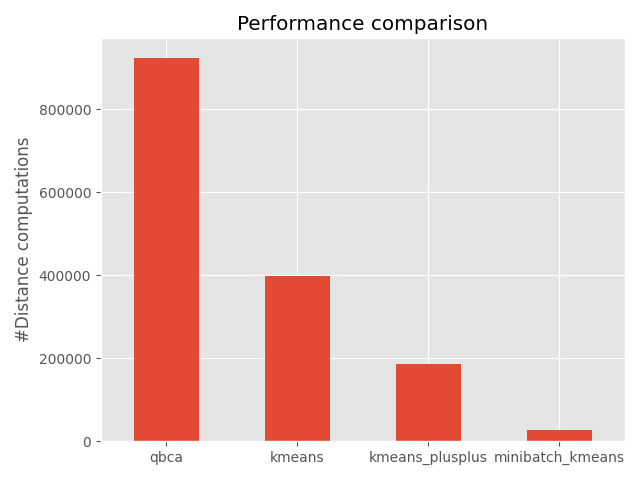
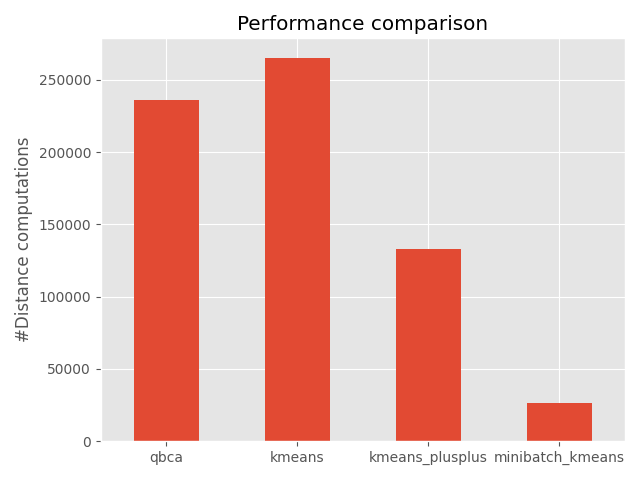
Add gaussian filter

diff --git a/source/test_utils.py b/source/test_utils.py
@@ -48,22 +48,20 @@ def create_gaussian_25():
 def load_image(filename, height=150):
     data_dir = "data"
     image = cv2.imread(os.path.join(data_dir, filename + ".jpg"))
-    image = cv2.cvtColor(image, cv2.COLOR_BGR2RGB)
+    image = cv2.cvtColor(image, cv2.COLOR_BGR2Lab)
     if height:
         y, x, z = image.shape
         ratio = height / float(y)
         dim = (int(x * ratio), height)
         image = cv2.resize(image, dim, interpolation=cv2.INTER_CUBIC)
+    image = cv2.GaussianBlur(image, (5,5), 0.5)
     pixel_values = image.reshape((-1, 3))
-    # y, x, z = image.shape
-    # x_idx, y_idx = np.unravel_index(np.arange(x * y), image.shape[:2])
-    # im2d = image.reshape(x * y, z)
-    # im2d = np.hstack((im2d, x_idx.reshape(-1, 1), y_idx.reshape(-1, 1)))
     return np.float32(pixel_values), image
 
 
 def initialize_algorithms(k, threshold, max_iter):
     qbca = QBCA(n_clusters=k, threshold=threshold, max_iter=max_iter)
+    # Set n_init to 1 to run only once the algorithms
     kmeans = KMeans(
         n_clusters=k,
         init="random",

diff --git a/results/butterfly_internal_metrics.tex b/results/butterfly_internal_metrics.tex
@@ -4,10 +4,10 @@
 \toprule
  & Calinski-Harabasz Index & Dunn Index \\
 \midrule
-qbca & \textbf{39559.2183} & \textbf{0.0046} \\
-kmeans & 39228.1012 & \textbf{0.0046} \\
-kmeans_plusplus & 37165.7072 & 0.0043 \\
-minibatch_kmeans & 38209.9279 & 0.0044 \\
+qbca & \textbf{36104.6279} & 0.0076 \\
+kmeans & 31762.4189 & 0.0084 \\
+kmeans_plusplus & 35895.2570 & 0.0075 \\
+minibatch_kmeans & 29566.8107 & \textbf{0.0089} \\
 \bottomrule
 \end{tabular}
 \end{table}

diff --git a/results/butterfly_performance.tex b/results/butterfly_performance.tex
@@ -4,10 +4,10 @@
 \toprule
  & Training time & #Distance computations \\
 \midrule
-qbca & 4.7505 & 924816.0000 \\
-kmeans & \textbf{0.0099} & 398250.0000 \\
-kmeans_plusplus & 0.0125 & 185850.0000 \\
-minibatch_kmeans & 0.0317 & \textbf{26550.0000} \\
+qbca & 1.7983 & 236143.0000 \\
+kmeans & \textbf{0.0083} & 265500.0000 \\
+kmeans_plusplus & 0.0116 & 132750.0000 \\
+minibatch_kmeans & 0.0310 & \textbf{26550.0000} \\
 \bottomrule
 \end{tabular}
 \end{table}

diff --git a/results/gaussian_25_performance.tex b/results/gaussian_25_performance.tex
@@ -4,10 +4,10 @@
 \toprule
  & Training time & #Distance computations \\
 \midrule
-qbca & 0.2834 & \textbf{32130.0000} \\
-kmeans & \textbf{0.0030} & 850000.0000 \\
-kmeans_plusplus & 0.0099 & 500000.0000 \\
-minibatch_kmeans & 0.0441 & 775000.0000 \\
+qbca & 0.2866 & \textbf{32130.0000} \\
+kmeans & \textbf{0.0030} & 875000.0000 \\
+kmeans_plusplus & 0.0098 & 500000.0000 \\
+minibatch_kmeans & 0.0445 & 775000.0000 \\
 \bottomrule
 \end{tabular}
 \end{table}

diff --git a/results/gaussian_5_performance.tex b/results/gaussian_5_performance.tex
@@ -4,10 +4,10 @@
 \toprule
  & Training time & #Distance computations \\
 \midrule
-qbca & 0.2186 & \textbf{8060.0000} \\
-kmeans & 0.0073 & 125000.0000 \\
-kmeans_plusplus & \textbf{0.0038} & 100000.0000 \\
-minibatch_kmeans & 0.0345 & 145000.0000 \\
+qbca & 0.2162 & \textbf{8060.0000} \\
+kmeans & 0.0074 & 145000.0000 \\
+kmeans_plusplus & \textbf{0.0039} & 100000.0000 \\
+minibatch_kmeans & 0.0392 & 165000.0000 \\
 \bottomrule
 \end{tabular}
 \end{table}

diff --git a/results/wine_performance.tex b/results/wine_performance.tex
@@ -4,10 +4,10 @@
 \toprule
  & Training time & #Distance computations \\
 \midrule
-qbca & 19.4229 & 4928.0000 \\
-kmeans & \textbf{0.0018} & \textbf{4058.4000} \\
-kmeans_plusplus & 0.0021 & \textbf{4058.4000} \\
-minibatch_kmeans & 0.0222 & 9451.8000 \\
+qbca & 19.4729 & 4928.0000 \\
+kmeans & \textbf{0.0019} & 4966.2000 \\
+kmeans_plusplus & 0.0020 & \textbf{2776.8000} \\
+minibatch_kmeans & 0.0264 & 11320.8000 \\
 \bottomrule
 \end{tabular}
 \end{table}

diff --git a/results/iris_performance.tex b/results/iris_performance.tex
@@ -4,10 +4,10 @@
 \toprule
  & Training time & #Distance computations \\
 \midrule
-qbca & 0.0788 & 5213.0000 \\
-kmeans & \textbf{0.0020} & 3420.0000 \\
-kmeans_plusplus & 0.0021 & \textbf{3240.0000} \\
-minibatch_kmeans & 0.0290 & 9675.0000 \\
+qbca & 0.0790 & 5213.0000 \\
+kmeans & \textbf{0.0018} & 3015.0000 \\
+kmeans_plusplus & 0.0020 & \textbf{2790.0000} \\
+minibatch_kmeans & 0.0274 & 9720.0000 \\
 \bottomrule
 \end{tabular}
 \end{table}

diff --git a/results/gaussian_25_internal_metrics.tex b/results/gaussian_25_internal_metrics.tex
@@ -5,9 +5,9 @@
  & Calinski-Harabasz Index & Dunn Index \\
 \midrule
 qbca & 889282.0314 & 0.0002 \\
-kmeans & 63806.3635 & 0.0002 \\
-kmeans_plusplus & 37606397.0128 & \textbf{2.6709} \\
-minibatch_kmeans & \textbf{37606397.0128} & \textbf{2.6709} \\
+kmeans & 39717.5530 & 0.0001 \\
+kmeans_plusplus & \textbf{37606397.0128} & \textbf{2.6709} \\
+minibatch_kmeans & 37606397.0128 & \textbf{2.6709} \\
 \bottomrule
 \end{tabular}
 \end{table}

diff --git a/results/wine_internal_metrics.tex b/results/wine_internal_metrics.tex
@@ -5,9 +5,9 @@
  & Calinski-Harabasz Index & Dunn Index \\
 \midrule
 qbca & \textbf{561.8157} & 0.0163 \\
-kmeans & 556.0242 & 0.0153 \\
-kmeans_plusplus & 536.8208 & 0.0162 \\
-minibatch_kmeans & 529.8899 & \textbf{0.0206} \\
+kmeans & 536.5407 & 0.0142 \\
+kmeans_plusplus & 556.2101 & 0.0167 \\
+minibatch_kmeans & 553.6274 & \textbf{0.0173} \\
 \bottomrule
 \end{tabular}
 \end{table}

diff --git a/results/iris_internal_metrics.tex b/results/iris_internal_metrics.tex
@@ -5,9 +5,9 @@
  & Calinski-Harabasz Index & Dunn Index \\
 \midrule
 qbca & 561.5937 & \textbf{0.1094} \\
-kmeans & \textbf{693.7084} & 0.0783 \\
+kmeans & 616.1957 & 0.0680 \\
 kmeans_plusplus & \textbf{693.7084} & 0.0783 \\
-minibatch_kmeans & 684.8018 & 0.0616 \\
+minibatch_kmeans & 679.3648 & 0.0587 \\
 \bottomrule
 \end{tabular}
 \end{table}

diff --git a/results/gaussian_5_internal_metrics.tex b/results/gaussian_5_internal_metrics.tex
@@ -5,7 +5,7 @@
  & Calinski-Harabasz Index & Dunn Index \\
 \midrule
 qbca & \textbf{27966597.2907} & \textbf{2.4173} \\
-kmeans & 5963267.3671 & 0.4838 \\
+kmeans & 5791614.5463 & 0.4837 \\
 kmeans_plusplus & \textbf{27966597.2907} & \textbf{2.4173} \\
 minibatch_kmeans & \textbf{27966597.2907} & \textbf{2.4173} \\
 \bottomrule
